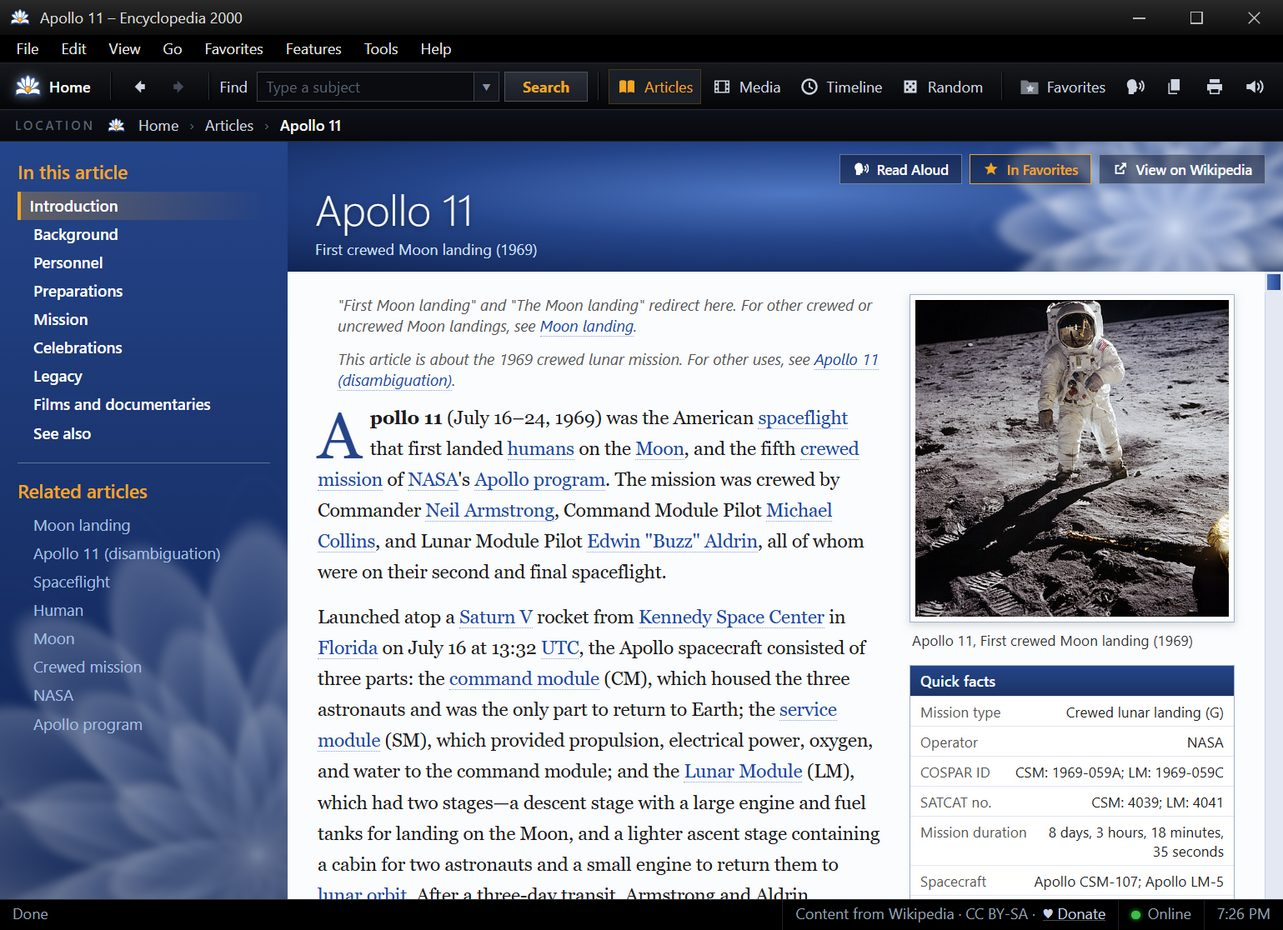
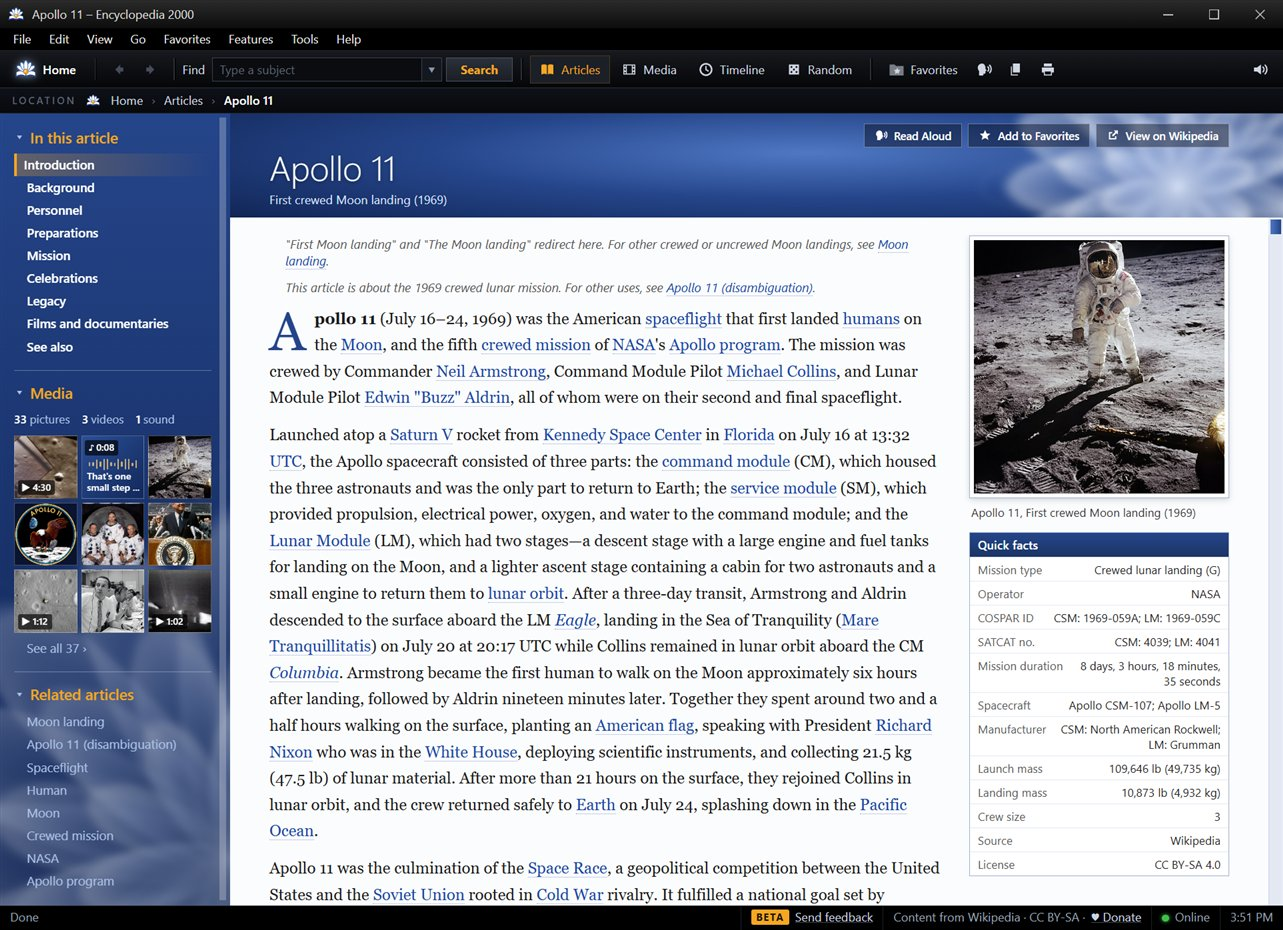
0.4: new article screenshot, videos and sounds in Articles, and Wikimedia Commons in the privacy policy

diff --git a/index.html b/index.html
@@ -54,10 +54,10 @@
       </div>
 
       <div class="row">
-        <button class="shot" data-cap="Articles open with a contents rail, a lead picture, and quick facts."><img src="images/article.jpg" alt="The Apollo 11 article" loading="lazy" width="1283" height="930"></button>
+        <button class="shot" data-cap="Articles open with a contents rail, a Media box of pictures, videos, and sounds, and quick facts."><img src="images/article.jpg" alt="The Apollo 11 article" loading="lazy" width="1283" height="930"></button>
         <div>
           <h3>Articles</h3>
-          <p>Wikipedia's articles in a clean, book-like layout, with a table of contents, quick facts, and Read Aloud.</p>
+          <p>Wikipedia's articles in a clean, book-like layout, with videos and sounds, quick facts, and Read Aloud.</p>
         </div>
       </div>
 

diff --git a/privacy/index.html b/privacy/index.html
@@ -50,7 +50,7 @@
     <div class="table"><table>
       <tr><th>Service</th><th>Why</th></tr>
       <tr><td><b>Wikipedia</b> (en.wikipedia.org)</td><td>Articles, search, featured content, and "On this day" events</td></tr>
-      <tr><td><b>Wikimedia Commons</b> (upload.wikimedia.org)</td><td>Pictures</td></tr>
+      <tr><td><b>Wikimedia Commons</b> (upload.wikimedia.org and commons.wikimedia.org)</td><td>Pictures, videos, and sounds, and the Media of the Day and Featured Sounds lists</td></tr>
       <tr><td><b>Wikidata</b> (query.wikidata.org)</td><td>Facts in World Explorer and Lifelines</td></tr>
       <tr><td><b>GitHub</b> (github.com)</td><td>Checking for and downloading updates</td></tr>
     </table></div>
